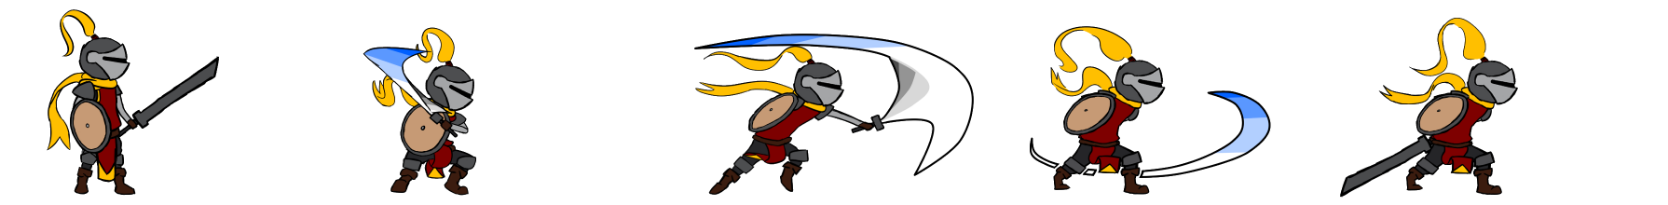
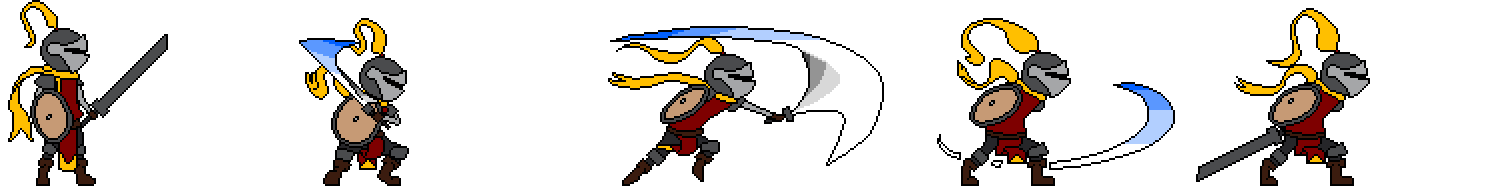
changed player spritesheet

diff --git a/js/n3_play.js b/js/n3_play.js
@@ -144,8 +144,8 @@ let transitionState = {
             lvEightBG = game.add.image(game.world.width*0.5, game.world.height*0.5, 'lvEightBG');
             lvEightBG.anchor.set(0.5, 0.5);
         }
-        playerSprite = game.add.sprite(140, 163, 'playerATK');
-        playerSprite.animations.add('pATK', [0,1,2,3,4,0], 24);
+        playerSprite = game.add.sprite(185, 176, 'playerATK');
+        pAnim = playerSprite.animations.add('pATK', [0,1,1,1,2,2,2,3,3,3,4,4,4,4,4,4,0], 30);
         textBar = game.add.image(0, 318, 'textBar');
         btmLeft = game.add.image(0, 403, 'btmLeft');
         btmRight = game.add.image(430, 403, 'btmRight');
@@ -255,8 +255,8 @@ let startState = {
     create: function() {
         lvOneBG = game.add.image(game.world.width*0.5, game.world.height*0.5, 'lvOneBG');
         lvOneBG.anchor.set(0.5, 0.5);
-        playerSprite = game.add.sprite(140, 163, 'playerATK');
-        pAnim = playerSprite.animations.add('pATK', [0,1,2,3,4,0], 24);
+        playerSprite = game.add.sprite(185, 176, 'playerATK');
+        pAnim = playerSprite.animations.add('pATK', [0,1,1,1,2,2,2,3,3,3,4,4,4,4,4,4,0], 30);
         pAnim.onComplete.add(transitioning, this);
         Mon1 = game.add.image(522, 26, 'Mon1');
         textBar = game.add.image(0, 318, 'textBar');
@@ -335,8 +335,8 @@ let start2State = {
     create: function() {
         lvTwoBG = game.add.image(game.world.width*0.5, game.world.height*0.5, 'lvTwoBG');
         lvTwoBG.anchor.set(0.5, 0.5);
-        playerSprite = game.add.sprite(140, 163, 'playerATK');
-        pAnim = playerSprite.animations.add('pATK', [0,1,2,3,4,0], 24);
+        playerSprite = game.add.sprite(185, 176, 'playerATK');
+        pAnim = playerSprite.animations.add('pATK', [0,1,1,1,2,2,2,3,3,3,4,4,4,4,4,4,0], 30);
         pAnim.onComplete.add(transitioning, this);
         Mon2 = game.add.image(427, 18, 'Mon2');
         textBar = game.add.image(0, 318, 'textBar');
@@ -421,8 +421,8 @@ let start3State = {
     create: function() {
         lvThreeBG = game.add.image(game.world.width*0.5, game.world.height*0.5, 'lvThreeBG');
         lvThreeBG.anchor.set(0.5, 0.5);
-        playerSprite = game.add.sprite(140, 163, 'playerATK');
-        pAnim = playerSprite.animations.add('pATK', [0,1,2,3,4,0], 24);
+        playerSprite = game.add.sprite(185, 176, 'playerATK');
+        pAnim = playerSprite.animations.add('pATK', [0,1,1,1,2,2,2,3,3,3,4,4,4,4,4,4,0], 30);
         pAnim.onComplete.add(transitioning, this);
         Mon3 = game.add.image(522, 48, 'Mon3');
         textBar = game.add.image(0, 318, 'textBar');
@@ -506,8 +506,8 @@ let start4State = {
     create: function() {
         lvFourBG = game.add.image(game.world.width*0.5, game.world.height*0.5, 'lvFourBG');
         lvFourBG.anchor.set(0.5, 0.5);
-        playerSprite = game.add.sprite(140, 163, 'playerATK');
-        pAnim = playerSprite.animations.add('pATK', [0,1,2,3,4,0], 24);
+        playerSprite = game.add.sprite(185, 176, 'playerATK');
+        pAnim = playerSprite.animations.add('pATK', [0,1,1,1,2,2,2,3,3,3,4,4,4,4,4,4,0], 30);
         pAnim.onComplete.add(transitioning, this);
         Mon4 = game.add.image(522, 84, 'Mon4');
         textBar = game.add.image(0, 318, 'textBar');
@@ -591,8 +591,8 @@ let start5State = {
     create: function() {
         lvFiveBG = game.add.image(game.world.width*0.5, game.world.height*0.5, 'lvFiveBG');
         lvFiveBG.anchor.set(0.5, 0.5);
-        playerSprite = game.add.sprite(140, 163, 'playerATK');
-        pAnim = playerSprite.animations.add('pATK', [0,1,2,3,4,0], 24);
+        playerSprite = game.add.sprite(185, 176, 'playerATK');
+        pAnim = playerSprite.animations.add('pATK', [0,1,1,1,2,2,2,3,3,3,4,4,4,4,4,4,0], 30);
         pAnim.onComplete.add(transitioning, this);
         Mon5 = game.add.image(560, 51, 'Mon5');
         textBar = game.add.image(0, 318, 'textBar');
@@ -676,8 +676,8 @@ let start6State = {
     create: function() {
         lvSixBG = game.add.image(game.world.width*0.5, game.world.height*0.5, 'lvSixBG');
         lvSixBG.anchor.set(0.5, 0.5);
-        playerSprite = game.add.sprite(140, 163, 'playerATK');
-        pAnim = playerSprite.animations.add('pATK', [0,1,2,3,4,0], 24);
+        playerSprite = game.add.sprite(185, 176, 'playerATK');
+        pAnim = playerSprite.animations.add('pATK', [0,1,1,1,2,2,2,3,3,3,4,4,4,4,4,4,0], 30);
         pAnim.onComplete.add(transitioning, this);
         Mon6 = game.add.image(522, 18, 'Mon6');
         textBar = game.add.image(0, 318, 'textBar');
@@ -761,8 +761,8 @@ let start7State = {
     create: function() {
         lvSevenBG = game.add.image(game.world.width*0.5, game.world.height*0.5, 'lvSevenBG');
         lvSevenBG.anchor.set(0.5, 0.5);
-        playerSprite = game.add.sprite(140, 163, 'playerATK');
-        pAnim = playerSprite.animations.add('pATK', [0,1,2,3,4,0], 24);
+        playerSprite = game.add.sprite(185, 176, 'playerATK');
+        pAnim = playerSprite.animations.add('pATK', [0,1,1,1,2,2,2,3,3,3,4,4,4,4,4,4,0], 30);
         pAnim.onComplete.add(transitioning, this);
         Mon7 = game.add.image(574, 208, 'Mon7');
         textBar = game.add.image(0, 318, 'textBar');
@@ -846,8 +846,8 @@ let start8State = {
     create: function() {
         lvEightBG = game.add.image(game.world.width*0.5, game.world.height*0.5, 'lvEightBG');
         lvEightBG.anchor.set(0.5, 0.5);
-        playerSprite = game.add.sprite(140, 163, 'playerATK');
-        pAnim = playerSprite.animations.add('pATK', [0,1,2,3,4,0], 24);
+        playerSprite = game.add.sprite(185, 176, 'playerATK');
+        pAnim = playerSprite.animations.add('pATK', [0,1,1,1,2,2,2,3,3,3,4,4,4,4,4,4,0], 30);
         pAnim.onComplete.add(transitioning, this);
         Mon8 = game.add.image(500, 175, 'Mon8');
         textBar = game.add.image(0, 318, 'textBar');

diff --git a/js/n0_preload.js b/js/n0_preload.js
@@ -195,7 +195,7 @@ let preloadState = {
         game.load.image('Mon7', 'js/media/7Mon.png');
         game.load.image('Mon8', 'js/media/8Mon.png');
         game.load.image('playerSprite', 'js/media/player.png');
-        game.load.spritesheet('playerATK', 'js/media/playerATK.png', 334, 205, 5);
+        game.load.spritesheet('playerATK', 'js/media/playerATK.png', 299, 186, 5);
         game.load.image('gameOver', 'js/media/gameOver.png');
         game.load.image('gameOverBack', 'js/media/backToTitleBLK.png');
 
